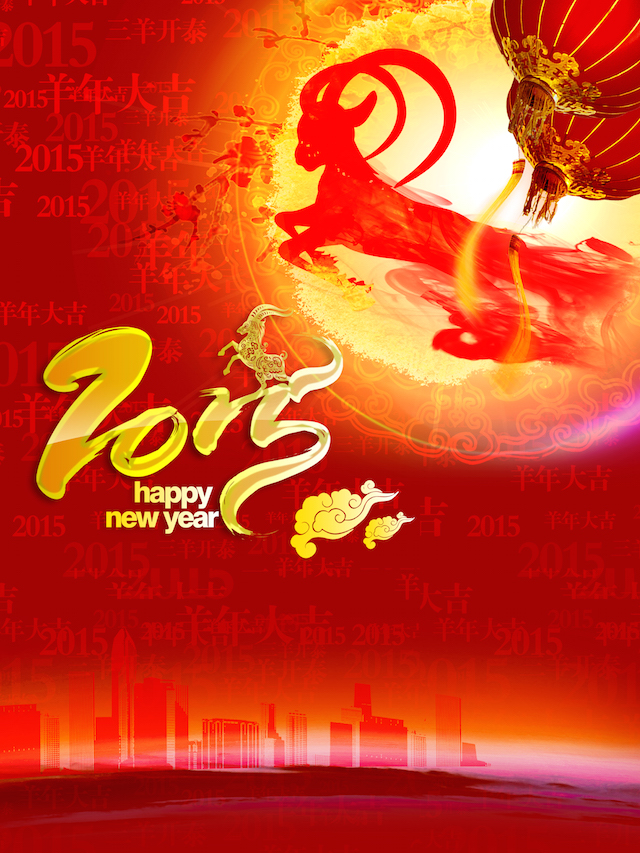
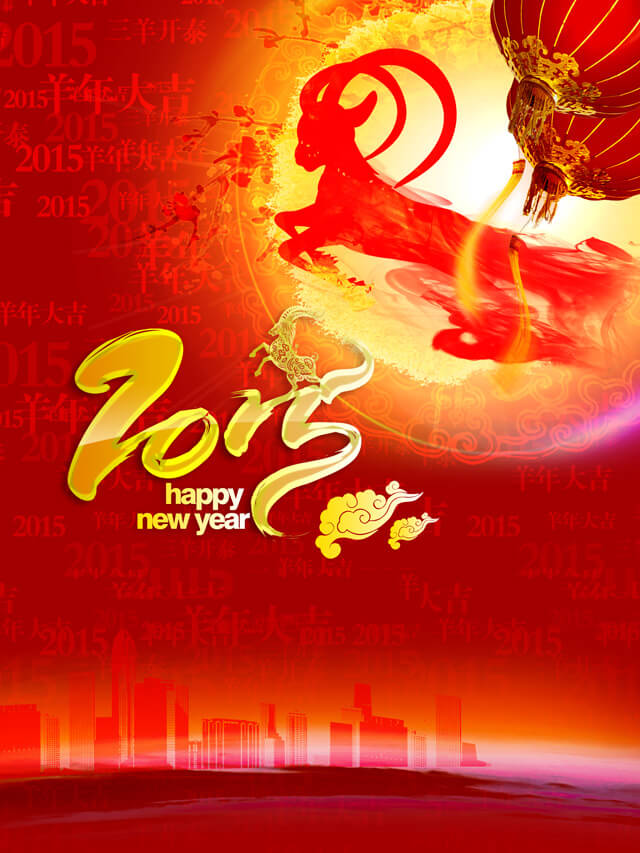
change position and color

diff --git a/css/app.min.css b/css/app.min.css
@@ -4,36 +4,37 @@ h1,h2,h3,h4,h5,h6{font-weight:normal}a{outline:0}ul{list-style:none}em{font-styl
 ::-moz-selection{background:#4c9ff1;color:#fff;text-shadow:none}::selection{background:#4c9ff1;color:#fff;text-shadow:none}body{background-color:#000}
 @media(min-width:640px){}.hidden-cover{width:0;height:0;overflow:hidden;display:block}.page.animate{-webkit-transition:-webkit-transform .4s ease}.page{position:absolute;top:0;left:0;height:100%;width:100%;background-color:#5780ae;-webkit-transform:translate(0,0)}
 .page .page-bg{position:absolute;display:inline-block;width:100%;height:100%;margin-left:-50%;top:0;left:50%;overflow:hidden}.page .page-bg>.bg-image{position:absolute;height:100%;left:50%;-webkit-transform:translateX(-50%);-moz-transform:translateX(-50%);-o-transform:translateX(-50%);transform:translateX(-50%)}
-.page .text-container{position:absolute;top:0;left:0;width:100%;font-size:1.5rem;line-height:1.6;overflow:hidden;text-align:center;color:#fff}.animated{-webkit-animation-duration:1s;animation-duration:1s;-webkit-animation-fill-mode:both;animation-fill-mode:both}
-.animated{opacity:0}.animated.delay1{-webkit-animation-delay:.2s;animation-delay:.2s}.animated.delay2{-webkit-animation-delay:.4s;animation-delay:.4s}
-.animated.delay3{-webkit-animation-delay:.6s;animation-delay:.6s}.animated.delay4{-webkit-animation-delay:.8s;animation-delay:.8s}.animated.delay5{-webkit-animation-delay:1s;animation-delay:1s}
-.page1 .text-container{top:35%;margin-top:-2.78125rem;color:#fff;font-weight:700}.page1 .circle{position:absolute;width:12rem;height:auto;left:50%;margin-left:-6rem;top:35%;margin-top:-6rem}
-.page1 .line{position:absolute;width:11rem;height:2.625rem;left:50%;margin-left:-5.5rem;top:35%;margin-top:-0.9rem}.page1.curr .text-container p,.page1.curr .circle,.page1.curr .line{-webkit-animation-name:zoomIn;animation-name:zoomIn}
-.page2 .text-container{top:35%;margin-top:-4.5rem;font-weight:700;color:#fff}.page2.curr .text-container{-webkit-animation-name:zoomIn;animation-name:zoomIn}
-.page3 .text-container{top:20%;text-align:left;color:#7e2412}.transparent-bg{padding:.5rem 1rem;background-color:rgba(252,252,252,0.498039);-webkit-box-sizing:border-box;box-sizing:border-box}
-.page3.curr .text-container{-webkit-animation-name:zoomIn;animation-name:zoomIn}.page4 .text-container{margin-top:-5.0625rem;top:50%;z-index:5;color:#7e2412;text-align:left}
-.page4 .image-container{margin-left:-10rem;left:50%;height:100%;width:20rem;position:absolute}.image-container img{position:absolute;width:12rem}.image-container .img1{z-index:1;top:4%}
-.image-container .img2{left:8rem;top:24%;z-index:2}.image-container .img3{z-index:3;top:44%}.image-container .img4{left:8rem;top:64%;z-index:4}.page4.curr .text-container{-webkit-animation-name:zoomIn;animation-name:zoomIn}
-.page4.curr .img1{-webkit-animation-name:fadeInLeft;animation-name:fadeInLeft}.page4.curr .img2{-webkit-animation-name:fadeInRight;animation-name:fadeInRight}
-.page4.curr .img3{-webkit-animation-name:fadeInLeft;animation-name:fadeInLeft}.page4.curr .img4{-webkit-animation-name:fadeInRight;animation-name:fadeInRight}
-.page5 .text-container{text-align:left}.page5 .title{top:3rem;font-size:1.5rem;color:#7e2412}.page5 .description{top:7rem;font-size:1.125rem;color:#000}
-.page5.curr .description{-webkit-animation-name:fadeInLeft;animation-name:fadeInLeft}.page6 .text-container{top:3rem;color:#7e2412}.page6.curr .text-container{-webkit-animation-name:zoomIn;animation-name:zoomIn}
-.page7 .text-container{top:0;color:#7e2412}.page7.curr .text-container{-webkit-animation-name:zoomIn;animation-name:zoomIn}.page8 .title{top:auto;font-size:1.5rem;color:#7e2412;bottom:5.47%;margin-bottom:13.5rem}
+.page .text-container{position:absolute;top:0;left:0;width:100%;font-size:1.5rem;font-weight:700;line-height:1.6;overflow:hidden;text-align:center;color:#fff}
+.animated{-webkit-animation-duration:1s;animation-duration:1s;-webkit-animation-fill-mode:both;animation-fill-mode:both}.animated{opacity:0}.animated.delay1{-webkit-animation-delay:.2s;animation-delay:.2s}
+.animated.delay2{-webkit-animation-delay:.4s;animation-delay:.4s}.animated.delay3{-webkit-animation-delay:.6s;animation-delay:.6s}.animated.delay4{-webkit-animation-delay:.8s;animation-delay:.8s}
+.animated.delay5{-webkit-animation-delay:1s;animation-delay:1s}.page1{z-index:1}.page1 .text-container{top:35%;margin-top:-2.78125rem;color:#fff;font-weight:700}
+.page1 .circle{position:absolute;width:12rem;height:auto;left:50%;margin-left:-6rem;top:35%;margin-top:-6rem}.page1 .line{position:absolute;width:11rem;height:2.625rem;left:50%;margin-left:-5.5rem;top:35%;margin-top:-0.9rem}
+.page1.curr .text-container p,.page1.curr .circle,.page1.curr .line{-webkit-animation-name:zoomIn;animation-name:zoomIn}.page2 .text-container{top:35%;margin-top:-4.5rem;font-weight:700;color:#fff}
+.page2.curr .text-container{-webkit-animation-name:zoomIn;animation-name:zoomIn}.page3 .text-container{top:20%;text-align:left;color:#fff}.transparent-bg{padding:.5rem 1rem;-webkit-box-sizing:border-box;box-sizing:border-box}
+.page3.curr .text-container{-webkit-animation-name:zoomIn;animation-name:zoomIn}.page4 .text-container{top:auto;bottom:3%;z-index:5;color:#fff;text-align:left}
+.page4 .image-container{margin-left:-10rem;left:50%;height:100%;width:20rem;position:absolute}.image-container img{position:absolute;height:25%}.image-container .img1{left:15%;top:.1rem;z-index:1}
+.image-container .img2{left:auto;right:15%;top:12.5%;z-index:2}.image-container .img3{left:15%;z-index:3;top:30%}.image-container .img4{left:auto;right:15%;top:42.5%;z-index:4}
+.page4.curr .text-container{-webkit-animation-name:zoomIn;animation-name:zoomIn}.page4.curr .img1{-webkit-animation-name:fadeInLeft;animation-name:fadeInLeft}
+.page4.curr .img2{-webkit-animation-name:fadeInRight;animation-name:fadeInRight}.page4.curr .img3{-webkit-animation-name:fadeInLeft;animation-name:fadeInLeft}
+.page4.curr .img4{-webkit-animation-name:fadeInRight;animation-name:fadeInRight}.page5 .text-container{text-align:left}.page5 .title{top:.3rem;font-size:1.5rem;color:#fff}
+.page5 .description{top:3.7rem;font-size:1.125rem;color:#000;background-color:rgba(252,252,252,0.498039)}.page5.curr .description{-webkit-animation-name:fadeInLeft;animation-name:fadeInLeft}
+.page6 .text-container{top:3rem;color:#7e2412}.page6.curr .text-container{-webkit-animation-name:zoomIn;animation-name:zoomIn}.page7 .text-container{top:0;color:#7e2412}
+.page7.curr .text-container{-webkit-animation-name:zoomIn;animation-name:zoomIn}.page8 .title{top:auto;bottom:5.47%;text-align:left;font-size:1.5rem;color:#7e2412;margin-bottom:13.5rem}
 .page8 .description{bottom:5.47%;top:auto;text-align:left;font-size:1.125rem;color:#000;height:13rem}.page8.curr .description p{-webkit-animation-name:fadeInUp;animation-name:fadeInUp}
-.page9 .text-container{text-align:left}.page9 .title{top:3rem;font-size:1.5rem;color:#7e2412}.page9 .description{top:7rem;font-size:1.125rem;color:#000}
-.page9.curr .description{-webkit-animation-name:fadeInLeft;animation-name:fadeInLeft}.page10 .text-container{text-align:left}.page10 .title{top:3rem;font-size:2rem;color:#7e2412}
-.page10 .description{top:8rem;font-size:1.125rem;color:#000;display:table-cell}.text-inner{display:table-cell}.text-inner .left,.text-inner .right{vertical-align:middle;display:table-cell}
-.text-inner .left{color:#f00;font-size:2rem;width:20%}.text-inner .right{width:80%;padding-left:10px;-webkit-box-sizing:border-box;box-sizing:border-box}
-.page10.curr .description{-webkit-animation-name:fadeInLeft;animation-name:fadeInLeft}.page11 .text-container{text-align:left}.page11 .title{top:3rem;font-size:2rem;color:#7e2412}
-.page11 .description{top:8rem;font-size:1.125rem;color:#000}.page11.curr .description{-webkit-animation-name:fadeInLeft;animation-name:fadeInLeft}.page12 .text-container{width:70%;right:0;top:40%;text-align:center;color:#7e2412}
-.page12.curr .text-container{-webkit-animation-name:fadeInLeft;animation-name:zoomIn}.page13 .text-container{top:40%;color:#7e2412}.page13.curr .text-container{-webkit-animation-name:fadeInRight;animation-name:fadeInRight}
-.page14 .text-container{top:auto;bottom:15%;color:#000}.page14.curr .text-container{-webkit-animation-name:rotateIn;animation-name:rotateIn}.page15 .text-container{top:40%;color:#000}
-.page15.curr .text-container{-webkit-animation-name:zoomIn;animation-name:zoomIn}.page16 .text-container{text-align:left}.page16 .title{top:3rem;font-size:1.5rem;color:#7e2412}
-.page16 .description{top:9rem;font-size:1.125rem;color:#000}.page16.curr .description{-webkit-animation-name:fadeInDown;animation-name:fadeInDown}.page16 ul{list-style:inherit;padding-left:1rem}
-.page16 ul li{padding-top:1rem;padding-bottom:1rem}.page17 .text-container{text-align:left}.page17 .title{top:3rem;font-size:1.5rem;color:#7e2412}.page17 .description{top:7rem;font-size:1.125rem;color:#000}
+.page9 .text-container{text-align:left}.page9 .title{top:3rem;font-size:1.5rem;color:#7e2412}.page9 .description{top:6rem;font-size:1.125rem;color:#000}
+.page9.curr .description{-webkit-animation-name:fadeInLeft;animation-name:fadeInLeft}.page10 .text-container{text-align:left;color:#fff}.page10 .title{top:3rem;font-size:2rem;color:#fff}
+.page10 .description{top:8rem;font-size:1.125rem;color:#fff;display:table-cell}.text-inner{display:table-cell}.text-inner .left,.text-inner .right{vertical-align:middle;display:table-cell}
+.page10 .right{color:#fff}.page11 .right{color:#fff}.text-inner .left{color:#f00;font-size:2rem;width:20%}.text-inner .right{width:80%;padding-left:10px;-webkit-box-sizing:border-box;box-sizing:border-box}
+.page10.curr .description{-webkit-animation-name:fadeInLeft;animation-name:fadeInLeft}.page11 .text-container{text-align:left}.page11 .title{top:1%;font-size:2rem;color:#fff}
+.page11 .description{top:10%;font-size:1.125rem;color:#000}.page11.curr .description{-webkit-animation-name:fadeInLeft;animation-name:fadeInLeft}.page12 .text-container{width:100%;right:0;top:3%;text-align:center;color:#7e2412}
+.page12.curr .text-container{-webkit-animation-name:fadeInLeft;animation-name:zoomIn}.page13 .text-container{top:auto;bottom:2%;color:#7e2412}.page13.curr .text-container{-webkit-animation-name:fadeInRight;animation-name:fadeInRight}
+.page14 .text-container{top:auto;bottom:15%;color:#000}.page14.curr .text-container{-webkit-animation-name:zoomIn;animation-name:zoomIn}.page15 .text-container{top:12%;color:#7e2412}
+.page15.curr .text-container{-webkit-animation-name:zoomIn;animation-name:zoomIn}.page16 .text-container{text-align:left}.page16 .title{top:3rem;font-size:1.5rem;color:#fff}
+.page16 .description{top:8rem;font-size:1.125rem;color:#fff}.page16.curr .description{-webkit-animation-name:fadeInDown;animation-name:fadeInDown}.page16 ul{list-style:inherit;padding-left:1rem}
+.page16 ul li{padding-top:.1rem;padding-bottom:.1rem}.page17 .text-container{text-align:left}.page17 .title{top:3rem;font-size:1.5rem;color:#7e2412}.page17 .description{top:7rem;font-size:1.125rem;color:#000}
 .page17.curr .description{-webkit-animation-name:fadeInLeft;animation-name:fadeInLeft}.page18 .text-container{top:50%;margin-top:-5rem;text-align:left;color:#fff}
-.page18.curr .text-container{-webkit-animation-name:fadeInDown;animation-name:fadeInDown}.page19 .text-container{opacity:1;top:auto;bottom:15%;color:#ffcf24;font-weight:700}
-.page19.curr .text-container{-webkit-animation-name:flip;animation-name:flip}@-webkit-keyframes slideRight{0%{left:-50%}100%{left:50%}}@-moz-keyframes slideRight{0%{left:-50%}
+.page18.curr .text-container{-webkit-animation-name:fadeInDown;animation-name:fadeInDown}.page19 .text-container{opacity:1;top:auto;bottom:5%;color:#ffcf24;font-weight:700}
+.page19.curr .text-container{-webkit-animation-name:zoomIn;animation-name:zoomIn}@-webkit-keyframes slideRight{0%{left:-50%}100%{left:50%}}@-moz-keyframes slideRight{0%{left:-50%}
 100%{left:50%}}@-keyframes slideRight{0%{left:-50%}100%{left:50%}}.u-arrow-bottom{position:absolute;bottom:10px;left:50%;z-index:150;width:24px;height:14px;margin-left:-7px}
 .u-arrow-bottom img{position:absolute;top:50%;left:50%;margin:-7px 0 0 -14px;width:24px;height:14px;background-position:0 -82px;-webkit-animation:start 1.5s infinite ease-in-out;-moz-animation:start 1.5s infinite ease-in-out;animation:start 1.5s infinite ease-in-out}
 #audio_btn{position:absolute;right:10px;top:10px;z-index:200;width:50px;height:50px;background-repeat:no-repeat}.audio_play{background-image:url(../image/music.gif);background-repeat:no-repeat;background-position:center center;background-size:60px 60px}

diff --git a/css/app.css b/css/app.css
@@ -92,6 +92,7 @@ body{
     left: 0;
     width: 100%;
     font-size: 1.5rem;
+    font-weight: 700;
     line-height: 1.6;
     overflow: hidden;
     text-align: center;
@@ -125,6 +126,9 @@ body{
 .animated.delay5 {
     -webkit-animation-delay: 1s;
             animation-delay: 1s;
+}
+.page1 {
+    z-index: 1;
 }
 .page1 .text-container {
     top: 35%;
@@ -167,12 +171,12 @@ body{
 .page3 .text-container {
     top: 20%;
     text-align: left;
-    color: #7e2412;
+    color: #fff;
 }
 
 .transparent-bg {
     padding: 0.5rem 1rem;
-    background-color: rgba(252, 252, 252, 0.498039);
+    /*background-color: rgba(252, 252, 252, 0.498039);*/
     -webkit-box-sizing: border-box;
             box-sizing: border-box;
 }
@@ -181,10 +185,10 @@ body{
           animation-name: zoomIn;
 }
 .page4 .text-container {
-    margin-top: -5.0625rem;
-    top: 50%;
+    top: auto;
+    bottom: 3%;
     z-index: 5;
-    color: #7e2412;
+    color: #fff;
     text-align: left;
 }
 .page4 .image-container {
@@ -196,24 +200,28 @@ body{
 }
 .image-container img {
     position: absolute;
-    width: 12rem;
+    height: 25%;
 }
 .image-container .img1 {
+    left: 15%;
+    top: 0.1rem;
     z-index: 1;
-    top: 4%;
 }
 .image-container .img2 {
-    left: 8rem;
-    top: 24%;
+    left: auto;
+    right: 15%;
+    top: 12.5%;
     z-index: 2;
 }
 .image-container .img3 {
+    left: 15%;
     z-index: 3;
-    top: 44%;
+    top: 30%;
 }
 .image-container .img4 {
-    left: 8rem;
-    top: 64%;
+    left: auto;
+    right: 15%;
+    top: 42.5%;
     z-index: 4;
 }
 .page4.curr .text-container {
@@ -241,14 +249,15 @@ body{
     text-align: left;
 }
 .page5 .title {
-    top: 3rem;
+    top: 0.3rem;
     font-size: 1.5rem;
-    color: #7e2412;
+    color: #fff;
 }
 .page5 .description {
-    top: 7rem;
+    top: 3.7rem;
     font-size: 1.125rem;
     color: #000;
+    background-color: rgba(252, 252, 252, 0.498039);
 }
 .page5.curr .description {
     -webkit-animation-name: fadeInLeft;
@@ -274,9 +283,10 @@ body{
 }
 .page8 .title {
     top: auto;
+    bottom: 5.47%;
+    text-align: left;
     font-size: 1.5rem;
     color: #7e2412;
-    bottom: 5.47%;
     margin-bottom: 13.5rem;
 }
 .page8 .description {
@@ -309,7 +319,7 @@ body{
     color: #7e2412;
 }
 .page9 .description {
-    top: 7rem;
+    top: 6rem;
     font-size: 1.125rem;
     color: #000;
 }
@@ -319,16 +329,17 @@ body{
 }
 .page10 .text-container {
     text-align: left;
+    color: #fff;
 }
 .page10 .title {
     top: 3rem;
     font-size: 2rem;
-    color: #7e2412;
+    color: #fff;
 }
 .page10 .description {
     top: 8rem;
     font-size: 1.125rem;
-    color: #000;
+    color: #fff;
     display: table-cell;
 }
 .text-inner {
@@ -337,6 +348,12 @@ body{
 .text-inner .left, .text-inner .right {
     vertical-align: middle;
     display: table-cell;
+}
+.page10 .right {
+    color: #fff;
+}
+.page11 .right {
+    color: #fff;
 }
 .text-inner .left {
     color: #f00;
@@ -357,12 +374,12 @@ body{
     text-align: left;
 }
 .page11 .title {
-    top: 3rem;
+    top: 1%;
     font-size: 2rem;
-    color: #7e2412;
+    color: #fff;
 }
 .page11 .description {
-    top: 8rem;
+    top: 10%;
     font-size: 1.125rem;
     color: #000;
 }
@@ -371,9 +388,9 @@ body{
             animation-name: fadeInLeft;
 }
 .page12 .text-container {
-    width: 70%;
+    width: 100%;
     right: 0%;
-    top: 40%;
+    top: 3%;
     text-align: center;
     color: #7e2412;
 }
@@ -382,7 +399,8 @@ body{
              animation-name: zoomIn;
 }
 .page13 .text-container {
-    top: 40%;
+    top: auto;
+    bottom: 2%;
     color: #7e2412;
 }
 .page13.curr .text-container {
@@ -395,12 +413,12 @@ body{
     color: #000;
 }
 .page14.curr .text-container {
-     -webkit-animation-name: rotateIn;
-             animation-name: rotateIn;
+     -webkit-animation-name: zoomIn;
+             animation-name: zoomIn;
 }
 .page15 .text-container {
-    top: 40%;
-    color: #000;
+    top: 12%;
+    color: #7e2412;
 }
 .page15.curr .text-container {
      -webkit-animation-name: zoomIn;
@@ -412,12 +430,12 @@ body{
 .page16 .title {
     top: 3rem;
     font-size: 1.5rem;
-    color: #7e2412;
+    color: #fff;
 }
 .page16 .description {
-    top: 9rem;
+    top: 8rem;
     font-size: 1.125rem;
-    color: #000;
+    color: #fff;
 }
 .page16.curr .description {
     -webkit-animation-name: fadeInDown;
@@ -428,8 +446,8 @@ body{
     padding-left: 1rem;
 }
 .page16 ul li {
-    padding-top: 1rem;
-    padding-bottom: 1rem;
+    padding-top: 0.1rem;
+    padding-bottom: 0.1rem;
 }
 
 .page17 .text-container {
@@ -463,13 +481,13 @@ body{
 .page19 .text-container {
     opacity: 1;
     top: auto;
-    bottom: 15%;
+    bottom: 5%;
     color: #ffcf24;
     font-weight: 700;
 }
 .page19.curr .text-container {
-     -webkit-animation-name: flip;
-             animation-name: flip;
+     -webkit-animation-name: zoomIn;
+             animation-name: zoomIn;
 }
 @-webkit-keyframes slideRight {
     0% {

diff --git a/app.html b/app.html
@@ -85,7 +85,7 @@
                 我们的使命
             </div>
             <div class="text-container description transparent-bg animated">
-                AVEVA提供创建和管理繁复数字资产的能力，帮助客户全球项目协同工作，降低风险，缩短交付周期，使客户的有形资产在整个生命周期中获得更大的经营效率。
+                AVEVA提供创建和管理繁复数字资产的能力，帮助客户进行全球项目的协同工作，降低风险，缩短交付周期，使客户的有形资产在整个生命周期中获得更大的经营效率。
             </div>
             <div class="u-arrow-bottom">
                 <img src="image/btn_arrow.png">
@@ -153,7 +153,7 @@
             <div class="text-container description transparent-bg animated">
                 <div class="text-inner">
                     <span class="left">100%</span>
-                    <span class="right">世界前10大能源公司是AVEVA的客户</span>
+                    <span class="right">世界前10大能源公司<br>是AVEVA的客户</span>
                 </div>
             </div>
             <div class="u-arrow-bottom">
@@ -170,7 +170,7 @@
             <div class="text-container description transparent-bg animated">
                 <div class="text-inner">
                     <span class="left">100%</span>
-                    <span class="right">世界前50家船厂都是是AVEVA用户</span>
+                    <span class="right">世界前50家船厂都是AVEVA用户</span>
                 </div>
             </div>
             <div class="u-arrow-bottom">
@@ -213,7 +213,7 @@
     </div>
     <div class="page15 page">
         <div class="page-bg">
-            <img src="image/15m.png" alt="" class="bg-image">
+            <img src="image/15m.jpg" alt="" class="bg-image">
             <div class="text-container animated transparent-bg">
                 AVEVA中国，我们一直在努力
             </div>
@@ -274,7 +274,7 @@
         <div class="page-bg">
             <img src="image/19m.jpg" alt="" class="bg-image">
             <div class="text-container animated">
-                AVEVA大中华区全体员工恭祝您新年快乐！
+                AVEVA大中华区全体员工恭祝您<br>新春快乐！
             </div>
             <div class="u-arrow-bottom">
                 <img src="image/btn_arrow.png">

diff --git a/js/app.min.js b/js/app.min.js
@@ -9,6 +9,6 @@ o.css("-webkit-transform",[k(-i),f(0)].join(" "));a.css("-webkit-transform",k(0)
 },u);}else{j.css("-webkit-transform",k(-i));o.css("-webkit-transform",[k(0),f(1)].join(" "));a.css("-webkit-transform",k(i));o.on("transitionend",g);p=setTimeout(function(){o.trigger("transitionend",g);
 },u);}}$(document).off("touchstart",c);l=false;}function q(s){s.preventDefault();if(!l){return;}var u=s.touches[0].pageY-r;var t=1-Math.abs(u/$(window).height());
 o.css("-webkit-transform",[k(u),f(t)].join(" "));j.css("-webkit-transform",k(u-i));a.css("-webkit-transform",k(u+i));}$(document).on("touchstart",c).on("touchmove",q).on("touchend",e);
-var m=document.getElementById("media");var h=$("#audio_btn");m.src="image/bg-music.mp3";$(m).on("play",function(){h.removeClass("audio_off").addClass("audio_play");
+var m=document.getElementById("media");var h=$("#audio_btn");m.src="image/bg-music.mp3";$(document).one("touchstart",function(){m.play();});$(m).on("play",function(){h.removeClass("audio_off").addClass("audio_play");
 }).on("pause",function(){h.removeClass("audio_play").addClass("audio_off");});h.on("touchstart",function(s){if(!m.paused){m.pause();}else{m.play();}return false;
 });});

diff --git a/js/app.js b/js/app.js
@@ -132,6 +132,9 @@ $(document)
 var audioElement = document.getElementById('media');
 var $audioBtn = $("#audio_btn");
 audioElement.src = 'image/bg-music.mp3';
+$(document).one('touchstart', function() {
+    audioElement.play();
+})
 
 $(audioElement)
 .on('play', function() {
